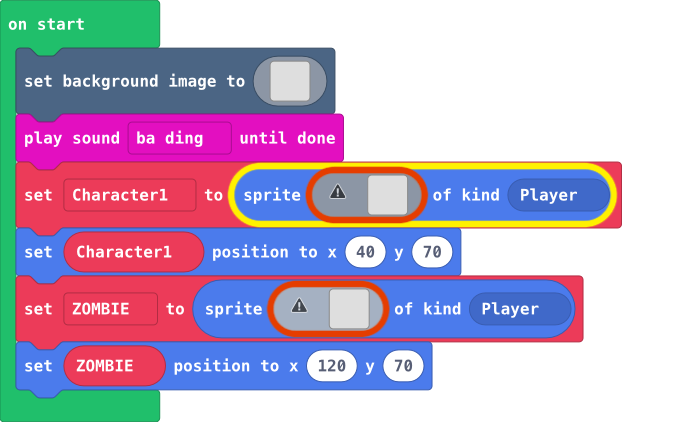
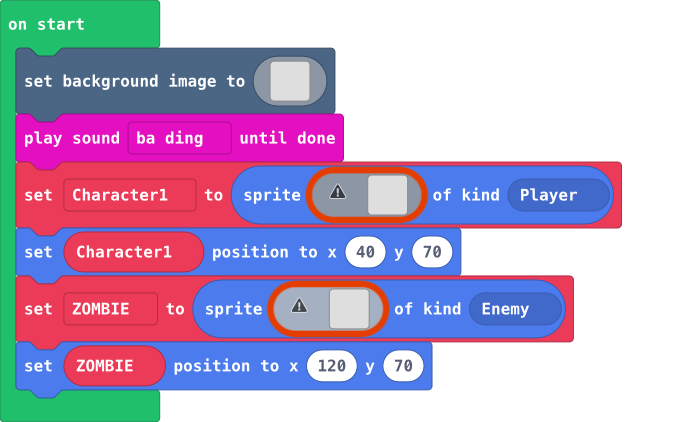
Update main.blocks, main.ts

Changed region(s): [[0.3116, 0.3697, 0.9347, 0.5545], [0.7166, 0.6469, 0.8724, 0.8318]]

diff --git a/main.ts b/main.ts
@@ -157,5 +157,5 @@ let ZOMBIE = sprites.create(img`
     . . . f 6 9 9 9 8 8 9 f . . . . 
     . . . . f f f f f f f . . . . . 
     . . . . . f f . f f . . . . . . 
-    `, SpriteKind.Player)
+    `, SpriteKind.Enemy)
 ZOMBIE.setPosition(120, 70)
